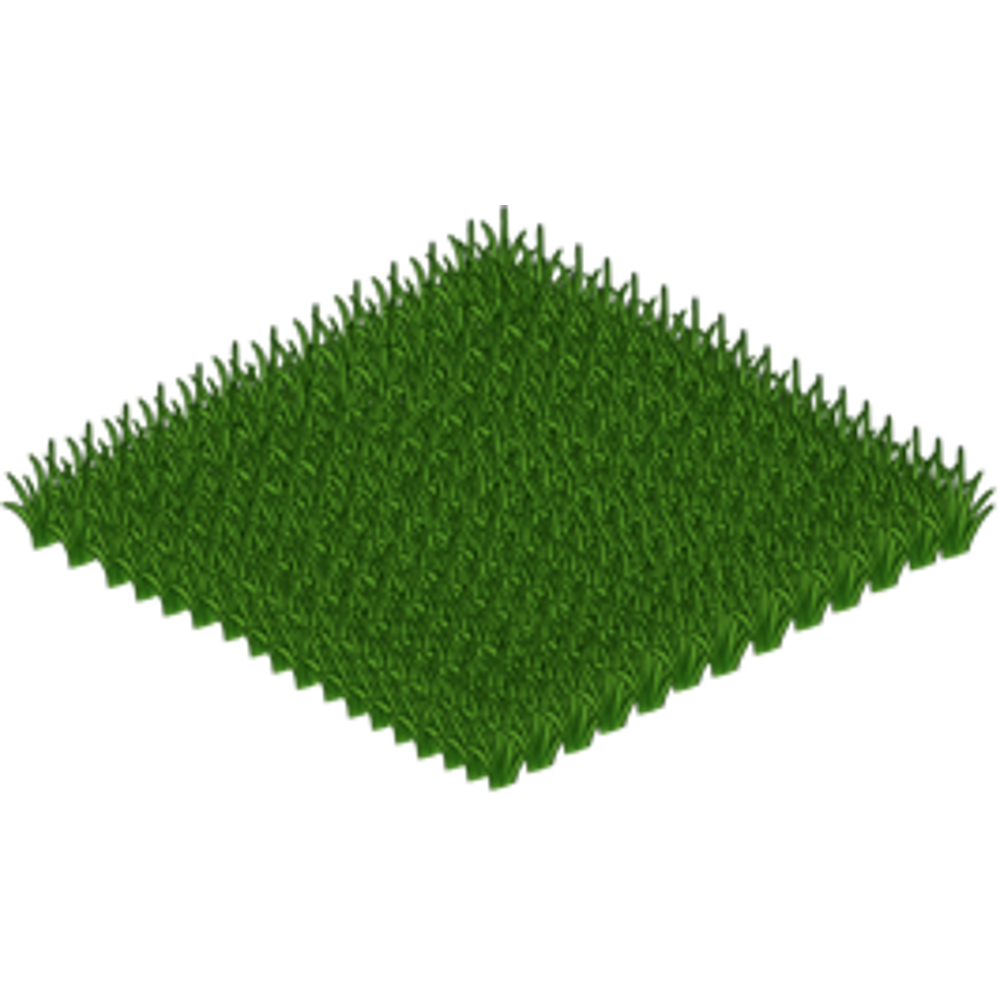
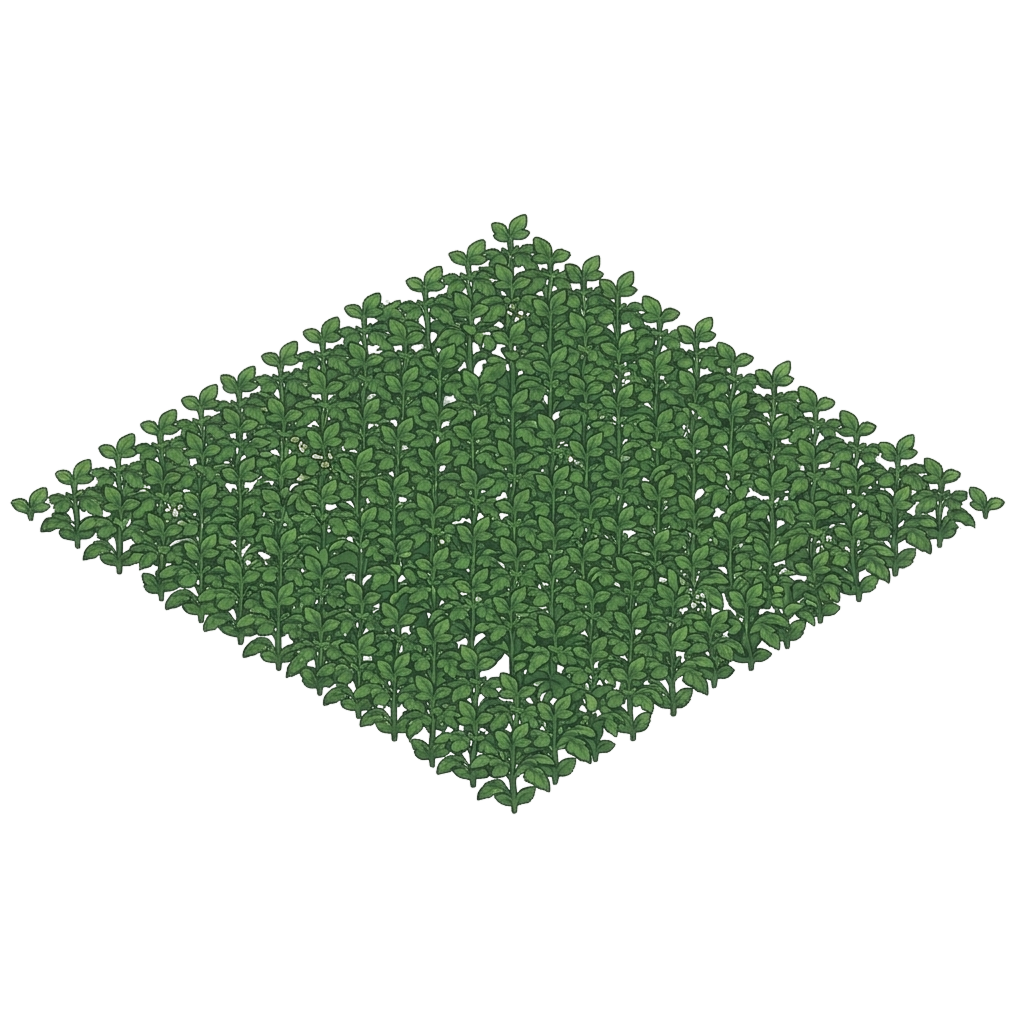
potato sprites added

Changed region(s): [[0.0, 0.186, 1.0, 0.806]]

diff --git a/css/weather.css b/css/weather.css
@@ -3,13 +3,6 @@
   display: flex;
   flex-direction: column;
   gap: 6px;
-  /* A centered billboard narrower than the field below it. The design board is
-     ~435px, so it clamps between 450 and 520px and scales a little with the
-     column rather than spanning it. align-self:center keeps it centred over the
-     field.
-
-     The floor was 420px, which left the meters column ~111px of inner width and
-     ellipsised the wind label to "W…". See ISS-061. */
   width: clamp(450px, 38%, 520px);
   max-width: 760px;
   align-self: center;
@@ -47,21 +40,9 @@
 
 .board-body {
   display: grid;
-  /* Fractional split so both columns scale with the board width. The design is
-     note ≈178px : meters ≈112px ≈ 61:39; the 1.6fr/1fr tracks that. A fixed px
-     meters column dominated the narrower board and squeezed the sticky note. */
   grid-template-columns: minmax(0, 1.6fr) minmax(0, 1fr);
   grid-template-rows: minmax(0, 1fr);
   gap: 14px;
-  /* Fills whatever the one-third board has left after the search row and the
-     hour notes. Both items are pinned to row 1 below: without that, the meters
-     (appended first) took row 1 and the note was auto-placed into an implicit
-     row 2, which is what made the board look too tall and the meters too short.
-     See ISS-056.
-
-     `overflow: hidden` keeps a tall note from spilling past the wood, and it
-     also clips the last pill's `box-shadow: 0 3px 0`. `.board-meters` carries a
-     3px bottom padding so that edge has room inside the clip. See ISS-060. */
   flex: 1 1 0;
   min-height: 0;
   overflow: hidden;
@@ -80,10 +61,6 @@
   min-height: 0;
 }
 
-/* Explicit placement: the WIDE sticky note goes in column 1 (LEFT), the NARROW
-   meters in column 2 (RIGHT) - matching the design. Done by grid-column rather
-   than DOM order because the meters are appended to the grid before the note
-   (see weatherPanel.js), which would otherwise put them in the wide left slot. */
 .board-body > .note-current {
   grid-column: 1;
   grid-row: 1;
@@ -129,25 +106,6 @@
     0 1px 2px rgba(40, 24, 8, 0.45);
 }
 
-/* The big note is a grid, because the place name sits in the paper's right-hand
- * side rather than above the condition. That side was empty at every width — the
- * temperature row is the widest thing on the note and it stops well short of the
- * right edge — while the name was squeezed into a single ellipsised line at the
- * top. See DEC-033 and ISS-062.
- *
- * The condition keeps a row of its own, spanning both columns: at 15px with 0.1em
- * of letter-spacing, "Freezing drizzle" is wider than one column at the board's
- * 450px floor, so squeezing it into the left column would have clipped the one
- * word that says what the weather is doing.
- *
- * `auto minmax(0, 1fr)` rather than two percentages: the temperature asks for the
- * width it needs and the place takes what is left, so no window size can make the
- * two overlap. The left track keeps an explicit 0 minimum so it can still shrink
- * on a narrow board instead of overflowing the note.
- *
- * `align-content: center` is the old vertical centring, and the rows for the two
- * conditional lines (`.note-feels`, `.note-status`) collapse to nothing when
- * their elements are absent. */
 .note-current {
   display: grid;
   grid-template-columns: minmax(0, auto) minmax(0, 1fr);
@@ -164,15 +122,6 @@
   min-height: 0;
 }
 
-/* The place the numbers describe, in the note's right-hand column beside the
-   temperature. Right-aligned against the paper's edge, so a long name grows
-   inwards towards the reading rather than out of the note.
-
-   It **wraps** — `nowrap` and an ellipsis used to turn "Kuala Lumpur, Malaysia"
-   into "Kuala L…", and there is room for two lines beside the temperature. At the
-   450px board floor "Dhaka, Bangladesh" needs both of them; at the 520px ceiling
-   it fits on one. `overflow-wrap: anywhere` is for the single-word places that are
-   wider than the column on their own. */
 .note-loc {
   grid-area: loc;
   align-self: center;
@@ -308,16 +257,9 @@
 .board-meter {
   position: relative;
   display: grid;
-  /* The label track is a bare `1fr`, whose automatic minimum is `min-content`,
-     so "Wind" can never be ellipsised. `minmax(0, 1fr)` explicitly allowed
-     shrinking below that, and the label rendered as "W…". See ISS-061. */
   grid-template-columns: 16px 1fr auto;
   align-items: center;
   gap: 8px;
-  /* The `min-content` floor above means the row can now exceed the pill rather
-     than ellipsising. This clips that at the rounded border instead of letting
-     text land on the bare wood. It does not clip the pill's own `box-shadow`,
-     which is drawn outside the border box. */
   overflow: hidden;
   /* flex:1 1 0 makes the three pills share the note's height evenly, so the stack
      lines up with the sticky note top-to-bottom — the design's three thin bars. */

diff --git a/css/crop-picker.css b/css/crop-picker.css
@@ -1,41 +1,9 @@
-/**
- * The seed picker, and the overlay it sits in.
- *
- * `#farm-picker` is a body-level element from `index.html` and **is** the overlay —
- * `farmActions.js` mounts the card straight into it, so there is no wrapper class and
- * nothing to keep in sync. It is `position: fixed` over the viewport rather than
- * absolutely positioned inside the game shell, so the card is centred on the whole
- * screen. Anchoring it to `.app` instead would centre it on the middle column and leave
- * it visibly off-centre on a wide monitor; `.app` is also `overflow: hidden`, so an
- * overlay inside it could never reach the edges.
- *
- * `z-index: 300` is the repo's modal tier — above `.toast-stack`'s 200, so the picker is
- * never interrupted by a transient message, and above `.plot`'s 200 for the same reason.
- *
- * **An empty host must be `display: none`, and this is load-bearing.** `position: fixed`
- * with `inset: 0` sizes an element to the viewport whether or not it has children, and
- * `background` paints whether or not it has children — so without the guard below, the
- * host is a full-screen dim overlay from the moment the page loads, swallowing every
- * click. That is exactly what shipped: the whole screen dimmed and nothing answered,
- * including the plot click that was supposed to open the picker. Being "out of flow" only
- * means it takes no *layout* space; it says nothing about painting or hit-testing.
- *
- * `:empty` matches only when there are no child nodes at all, and `farmActions.js` keeps
- * the host truly empty when closed — `clear(host)` removes the card and nothing adds
- * whitespace — so the guard is reliable here. If a future change ever leaves a text node
- * in there, use a class toggle instead; `:empty` is a trap that way.
- */
-
 #farm-picker {
   position: fixed;
   inset: 0;
   z-index: 300;
   display: grid;
   place-items: center;
-  /* Dim rather than hide. The field underneath has to stay legible — the plot being
-   * planted on is the thing the player is deciding about — and `inset: 0` means this
-   * also swallows every click outside the card, which is what stops a stray click
-   * landing on a locked plot while a choice is open. */
   padding: var(--space-4, 1rem);
   background: rgba(20, 28, 22, 0.45);
 }
@@ -99,7 +67,7 @@
 }
 
 .crop-picker__name {
-  font-family: 'Luckiest Guy', var(--font-body);
+  font-family: "Luckiest Guy", var(--font-body);
   font-size: var(--text-md, 1rem);
 }
 
@@ -114,31 +82,22 @@
   color: var(--text-faint);
 }
 
-/* The forecast verdict: what the next six hours will do to this seed.
- *
- * Above the note in weight and below it in size, because it is the thing the player
- * is actually deciding on — `growNote` is flavour, this is the forecast.
- *
- * The colour is a second channel, never the only one: the rating word is in the text
- * too, so this still reads for a colour-blind player and in a forced-colours theme.
- * `data-rating` is the rating as a string, so `2` and `-2` cannot be confused with
- * `0` in a selector. */
 .crop-picker__weather {
   font-size: var(--text-xs, 0.75rem);
   font-weight: 600;
   color: var(--text-muted);
 }
 
-.crop-picker__weather[data-rating='2'],
-.crop-picker__weather[data-rating='1'] {
+.crop-picker__weather[data-rating="2"],
+.crop-picker__weather[data-rating="1"] {
   color: var(--success, #2f7d4f);
 }
 
-.crop-picker__weather[data-rating='-1'] {
+.crop-picker__weather[data-rating="-1"] {
   color: var(--warning, #96690d);
 }
 
-.crop-picker__weather[data-rating='-2'] {
+.crop-picker__weather[data-rating="-2"] {
   color: var(--danger, #b3392f);
 }
 

diff --git a/css/layout.css b/css/layout.css
@@ -6,10 +6,6 @@
     "top    top    top"
     "left   centre right";
   gap: 16px;
-  /* `height`, not `min-height`: the shell is confined to one screen, so the game
-     scene never scrolls. `dvh` so a collapsing mobile URL bar cannot clip the
-     field. Pages that need to scroll — inventory, shop, profile, settings — are
-     separate documents with their own shells and are unaffected. */
   height: 100dvh;
   overflow: hidden;
   padding: 16px;
@@ -31,20 +27,9 @@
   flex-direction: column;
   gap: 16px;
   min-width: 0;
-  /* Without this a flex child refuses to shrink below its content height, and the
-     column overflows the fixed-height shell no matter what the children say. */
   min-height: 0;
 }
 
-/* The forecast board takes one third of the column and the field the other two
-   thirds. A ratio rather than content-sized, on purpose: the board must not grow
-   with its content and squeeze the field.
-
-   The earlier overlap that made this look too small was not the ratio. The meters
-   and the note were both placed in `.board-body` without a grid row, so the note
-   fell into an implicit second row and the content looked twice as tall as it was.
-   With both pinned to row 1 in css/weather.css the content fits a third, and
-   `@media (max-height: 960px)` there compresses it on shorter screens. See ISS-055. */
 .app__centre > .board {
   flex: 0 0 33.333%;
   min-height: 0;
@@ -77,10 +62,6 @@
 /* Single column below 900px: navbar, forecast, farm, right column, sidebar as
    a bottom bar. Basic only, per the plan. */
 @media (max-width: 900px) {
-  /* Stacked to one column here, so the fixed height and the overflow clip are both
-     undone — a phone cannot show a 4x4 isometric field and a forecast panel in one
-     screen without either scrolling or shrinking the field to nothing. Desktop gets
-     the fit-to-viewport treatment; a phone scrolls. */
   .app {
     grid-template-columns: minmax(0, 1fr);
     grid-template-rows: auto auto auto auto auto;

diff --git a/css/navbar.css b/css/navbar.css
@@ -1,8 +1,3 @@
-/* The wordmark is styled to match login.html's top bar (css/auth.css
-   `.auth__bar` / `.auth__word`). Pulling in fonts.css here loads the display
-   face (Luckiest Guy) on the game page, which index.html does not link
-   directly. check-imports.mjs scans .js only, so this @import is invisible to
-   the layering check. */
 @import url("fonts.css");
 
 .navbar {
@@ -10,17 +5,9 @@
   align-items: center;
   justify-content: space-between;
   gap: 16px;
-  /* 64px bar + the shell's 16px row-gap below it = an 80px header region, matching
-     the design. This is the whole header (bar + gap), not just the bar — the bar
-     element itself is 64px; the 16px is `.app`'s gap in css/layout.css. */
-  height: 64px;
   padding: 0 24px;
   background: #ffffff;
   box-shadow: 0 3px 0 rgba(43, 26, 12, 0.12);
-
-  /* The game shell (.app) pads 16px around every panel; the bar cancels it so
-     it runs full-bleed to the top and side edges, like login.html's .auth__bar.
-     The grid's 16px gap is preserved below, between the bar and the content. */
   margin: -16px -16px 0;
 }
 
@@ -64,10 +51,6 @@
   text-overflow: ellipsis;
 }
 
-/* The bar is always white (it mirrors login.html's bar), so the name must use a
-   fixed dark colour, not `--text` — in dark theme `--text` is near-white and
-   would vanish against the white bar. These are the light theme's text colours,
-   which is the look the white bar already matches. */
 .navbar__actions > .navbar__account-name {
   color: #1f2721;
   font-weight: 600;
@@ -86,11 +69,6 @@
   height: 20px;
 }
 
-/* Square icon tiles: sound, settings, account.
-   Pale green fill with no outline, as in the design. The bar is always white, so
-   the fill and the icon colour are fixed values rather than theme tokens — in the
-   dark theme `--surface` and `--text` would turn the tile dark with a near-white
-   icon on a white bar. */
 .navbar__tile {
   display: inline-flex;
   align-items: center;

diff --git a/css/settings.css b/css/settings.css
@@ -85,19 +85,6 @@
   gap: 8px;
 }
 
-/* --- difficulty ---------------------------------------------------------- */
-
-/* A radio group where the *explanation* is the point.
- *
- * Each option is a label wrapping its input and its text, so the whole panel is the
- * click target — a 16px radio in a settings card is a small thing to aim at, and the
- * sentence explaining the mode is the part a player actually wants to click on.
- *
- * The native radio is kept and merely hidden rather than replaced with a styled span:
- * it brings keyboard behaviour, arrow-key navigation within the group, and a real form
- * control to screen readers, none of which a div would have. `sr-only`-style clipping
- * rather than `display: none`, because a hidden input is removed from the tab order.
- */
 .settings-radio {
   display: flex;
   flex-direction: column;

diff --git a/css/shop.css b/css/shop.css
@@ -15,12 +15,6 @@ body.shop-page {
     var(--font-ui);
 }
 
-/* Dead selector, deliberately not restored: `#connection-banner` was renamed
-   `#sync-indicator` in ISS-076 and no longer exists in any page. This rule came
-   back when `8cccedb` merged an unresolved conflict into `main` (ISS-078). The
-   sync chip is `position: fixed` at `z-index: 210`, so it already paints over the
-   log columns and needs no override at all. */
-
 /* Left and right wood posts — full-height columns framing the stall. */
 body.shop-page::before,
 body.shop-page::after {

diff --git a/css/sidebar.css b/css/sidebar.css
@@ -1,9 +1,3 @@
-/* The place search moved to the wooden forecast board and is styled with it, in
-   css/weather.css. It had no rules at all for most of its life, so the input was a
-   full-width block and the buttons wrapped onto lines below it — ~130px for a
-   control that fits in 38px. That space is the difference between a field that
-   fills the screen and one that has room for the farm. See ISS-046. */
-
 .season-card {
   display: flex;
   flex-direction: row;

diff --git a/css/profile.css b/css/profile.css
@@ -1,10 +1,3 @@
-/* Profile page — the account card and sign-out, moved off the settings page.
- *
- * Shaped like settings.css: one centred column, the display face on the heading,
- * and a card whose title matches the settings page's so the two read as a pair.
- * The body class keeps this file's type choices from leaking onto the farm page.
- */
-
 .profile-page {
   display: block;
   font-family: var(--font-ui);

diff --git a/css/reset.css b/css/reset.css
@@ -1,8 +1,3 @@
-/* Reset: a small, opinionated baseline.
- *
- * Not a full normalisation library -- only what this project actually relies on.
- */
-
 *,
 *::before,
 *::after {
